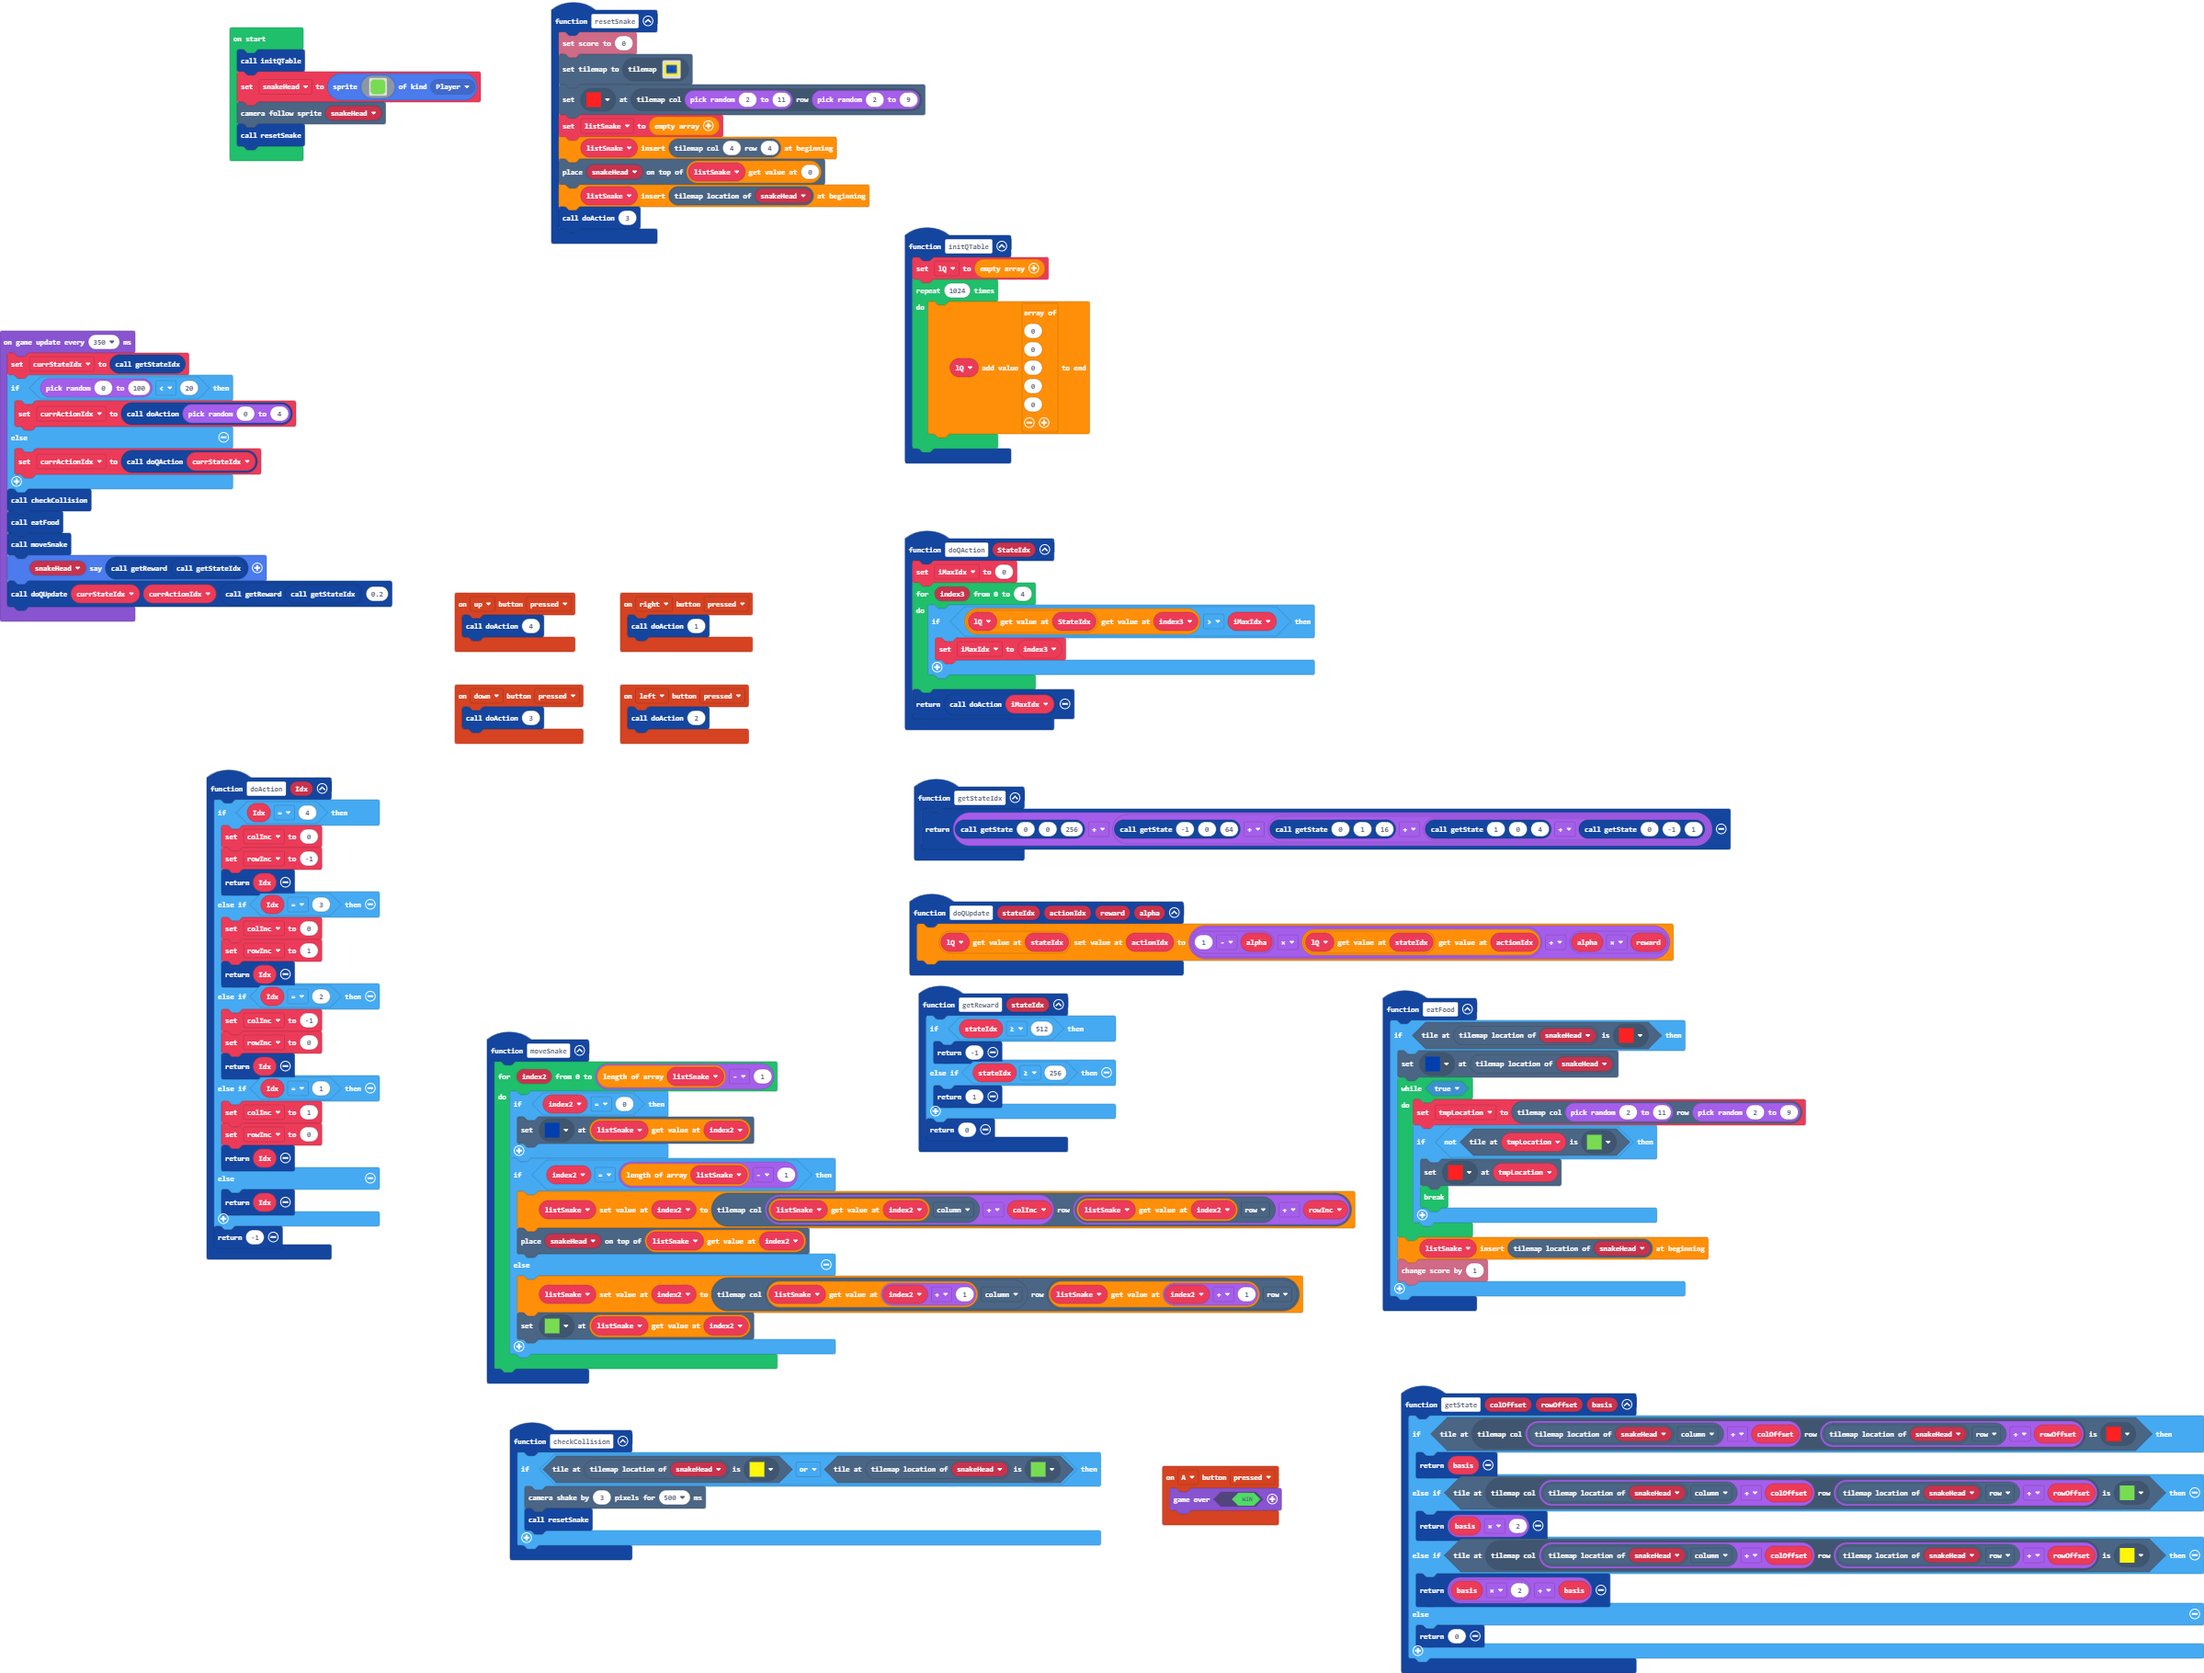
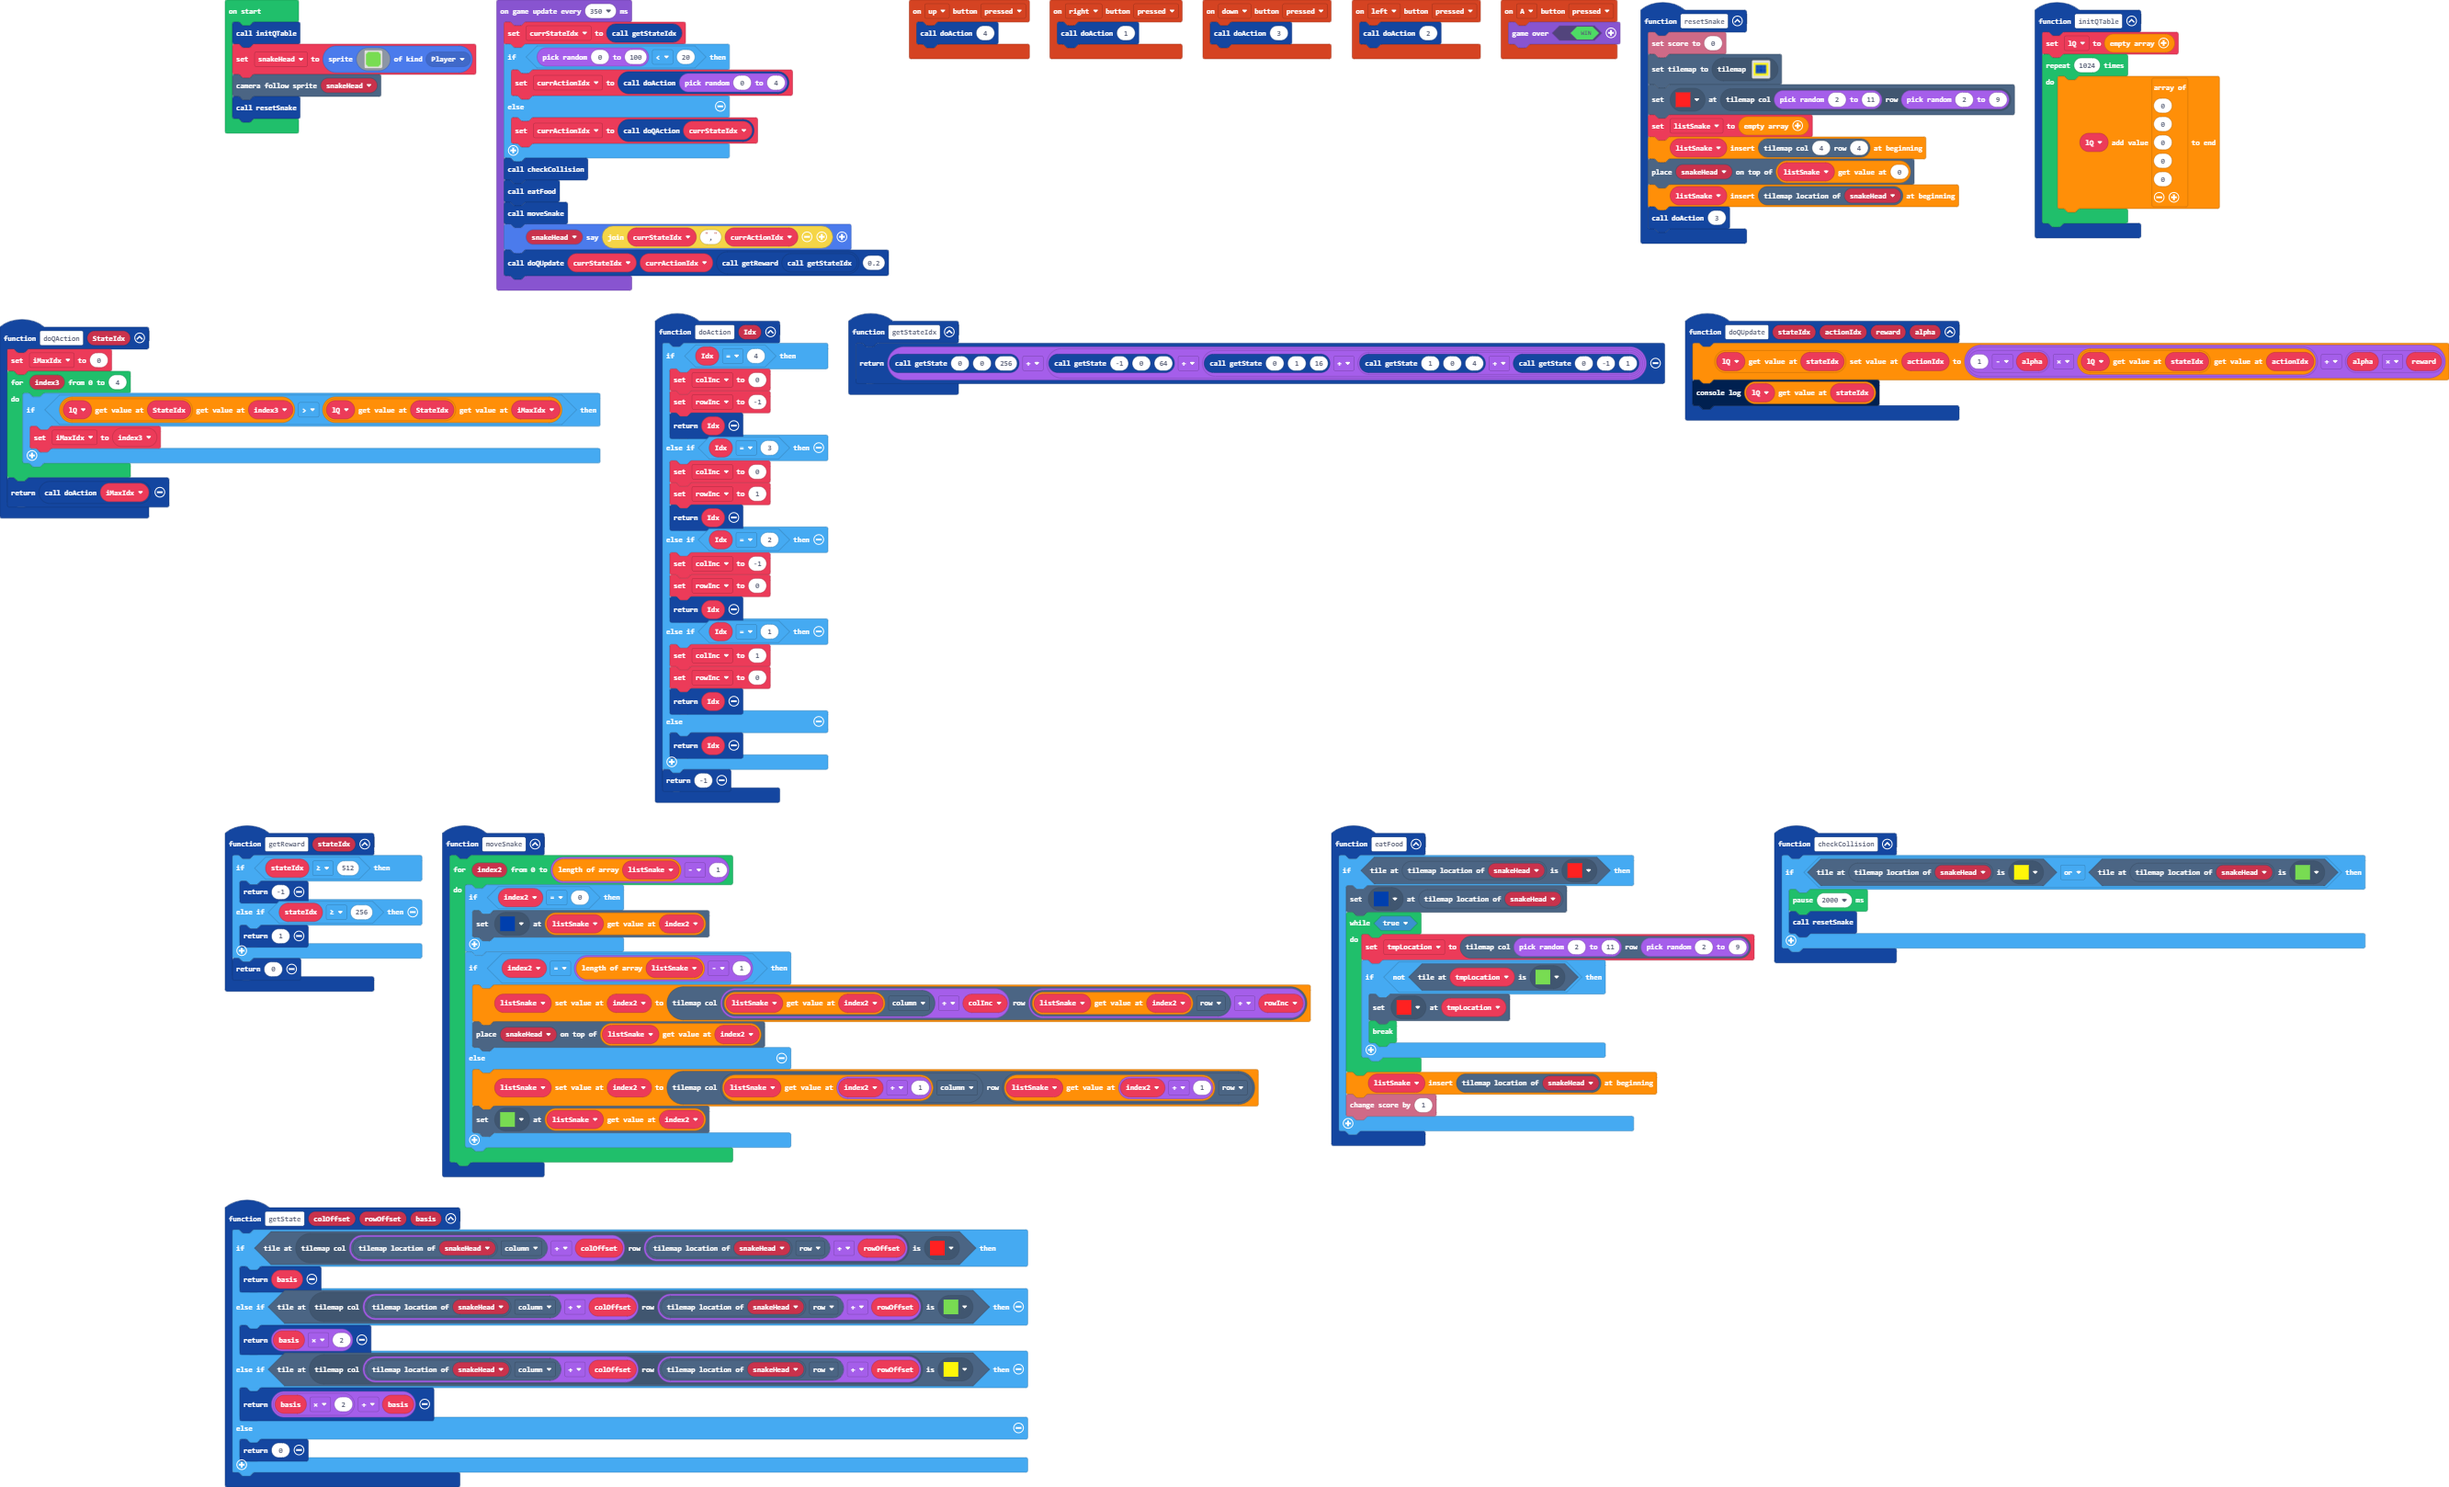
Bug fix in "doQAction", now learning.

diff --git a/tilemap.g.ts b/tilemap.g.ts
@@ -66,6 +66,25 @@ namespace myTiles {
 . . . . . . . . . . . . . . . . 
 . . . . . . . . . . . . . . . . 
 `, [myTiles.transparency16], TileScale.Sixteen);
+            case "level4":
+            case "level4":return tiles.createTilemap(hex`1000100000000000000000000000000000000000000000000000000000000000000000000000000000000000000000000000000000000000000000000000000000000000000000000000000000000000000000000000000000000000000000000000000000000000000000000000000000000000000000000000000000000000000000000000000000000000000000000000000000000000000000000000000000000000000000000000000000000000000000000000000000000000000000000000000000000000000000000000000000000000000000000000000000000000000000000000000000000000000000000000000000000000000000000000000000000000`, img`
+. . . . . . . . . . . . . . . . 
+. . . . . . . . . . . . . . . . 
+. . . . . . . . . . . . . . . . 
+. . . . . . . . . . . . . . . . 
+. . . . . . . . . . . . . . . . 
+. . . . . . . . . . . . . . . . 
+. . . . . . . . . . . . . . . . 
+. . . . . . . . . . . . . . . . 
+. . . . . . . . . . . . . . . . 
+. . . . . . . . . . . . . . . . 
+. . . . . . . . . . . . . . . . 
+. . . . . . . . . . . . . . . . 
+. . . . . . . . . . . . . . . . 
+. . . . . . . . . . . . . . . . 
+. . . . . . . . . . . . . . . . 
+. . . . . . . . . . . . . . . . 
+`, [myTiles.transparency16], TileScale.Sixteen);
         }
         return null;
     })

diff --git a/main.ts b/main.ts
@@ -81,7 +81,7 @@ function resetSnake () {
 }
 function checkCollision () {
     if (tiles.tileAtLocationEquals(snakeHead.tilemapLocation(), assets.tile`Wall`) || tiles.tileAtLocationEquals(snakeHead.tilemapLocation(), assets.tile`myTile`)) {
-        scene.cameraShake(3, 500)
+        pause(2000)
         resetSnake()
     }
 }
@@ -116,7 +116,7 @@ function doAction (Idx: number) {
 function doQAction (StateIdx: number) {
     iMaxIdx = 0
     for (let index3 = 0; index3 <= 4; index3++) {
-        if (lQ[StateIdx][index3] > iMaxIdx) {
+        if (lQ[StateIdx][index3] > lQ[StateIdx][iMaxIdx]) {
             iMaxIdx = index3
         }
     }
@@ -124,6 +124,7 @@ function doQAction (StateIdx: number) {
 }
 function doQUpdate (stateIdx: number, actionIdx: number, reward: number, alpha: number) {
     lQ[stateIdx][actionIdx] = (1 - alpha) * lQ[stateIdx][actionIdx] + alpha * reward
+    console.log(lQ[stateIdx])
 }
 let currActionIdx = 0
 let currStateIdx = 0
@@ -165,6 +166,6 @@ game.onUpdateInterval(350, function () {
     checkCollision()
     eatFood()
     moveSnake()
-    snakeHead.sayText(getReward(getStateIdx()))
+    snakeHead.sayText("" + currStateIdx + "," + currActionIdx)
     doQUpdate(currStateIdx, currActionIdx, getReward(getStateIdx()), 0.2)
 })

diff --git a/main.py b/main.py
@@ -109,7 +109,7 @@ def checkCollision():
         assets.tile("""
             myTile
         """)):
-        scene.camera_shake(3, 500)
+        pause(2000)
         resetSnake()
 
 def on_down_pressed():
@@ -143,11 +143,12 @@ def doQAction(StateIdx: number):
     global iMaxIdx
     iMaxIdx = 0
     for index3 in range(5):
-        if lQ[StateIdx][index3] > iMaxIdx:
+        if lQ[StateIdx][index3] > lQ[StateIdx][iMaxIdx]:
             iMaxIdx = index3
     return doAction(iMaxIdx)
 def doQUpdate(stateIdx2: number, actionIdx: number, reward: number, alpha: number):
     lQ[stateIdx2][actionIdx] = (1 - alpha) * lQ[stateIdx2][actionIdx] + alpha * reward
+    print(lQ[stateIdx2])
 currActionIdx = 0
 currStateIdx = 0
 iMaxIdx = 0
@@ -190,6 +191,6 @@ def on_update_interval():
     checkCollision()
     eatFood()
     moveSnake()
-    snakeHead.say_text(getReward(getStateIdx()))
+    snakeHead.say_text("" + str(currStateIdx) + "," + str(currActionIdx))
     doQUpdate(currStateIdx, currActionIdx, getReward(getStateIdx()), 0.2)
 game.on_update_interval(350, on_update_interval)
